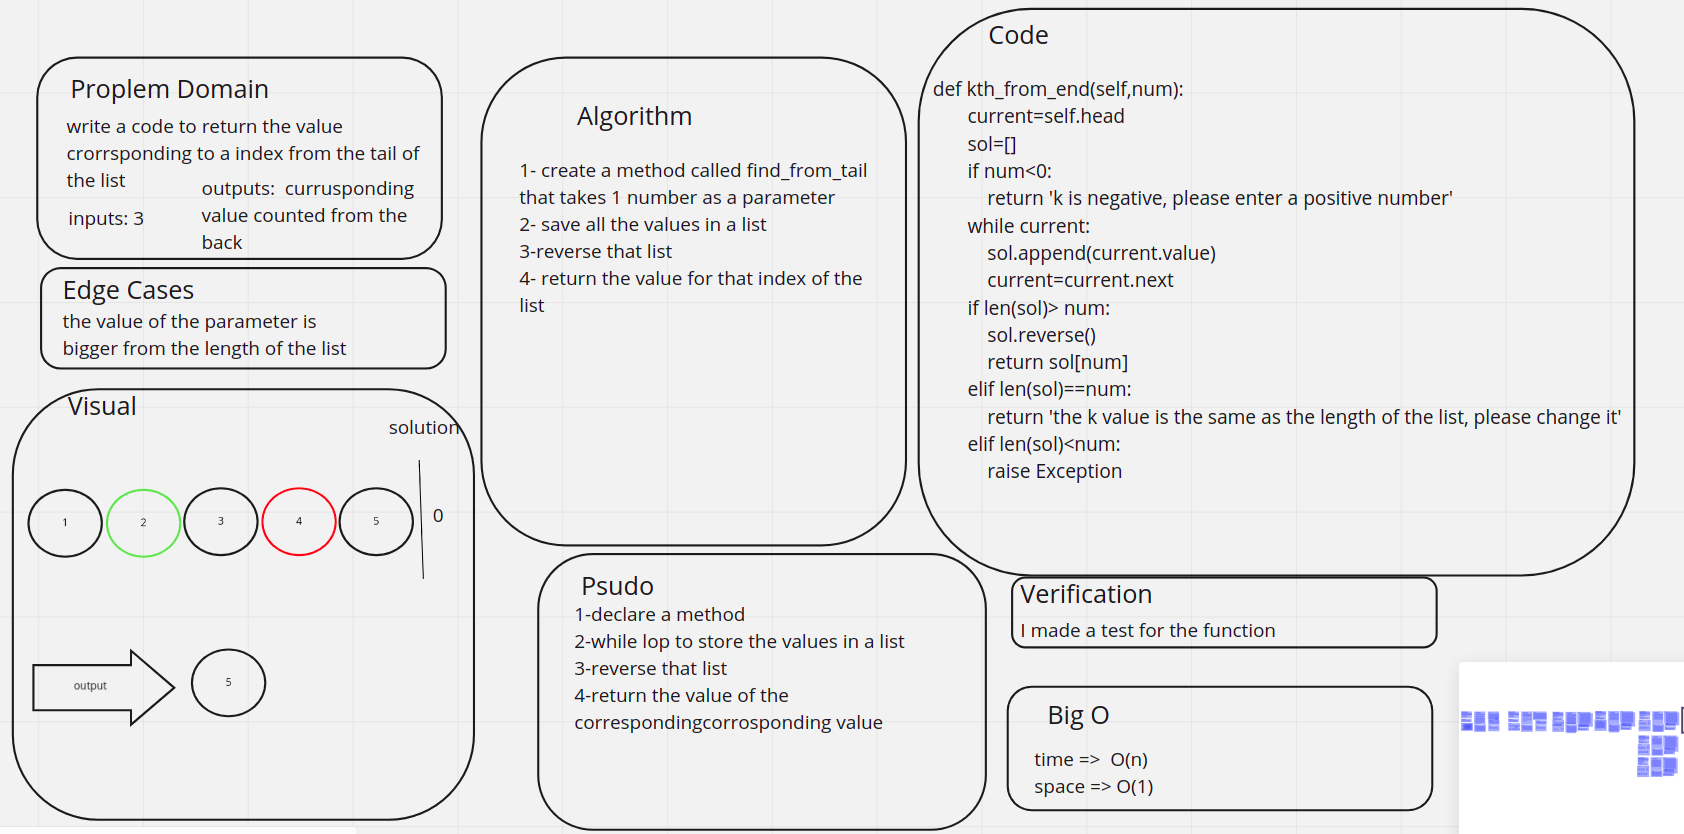
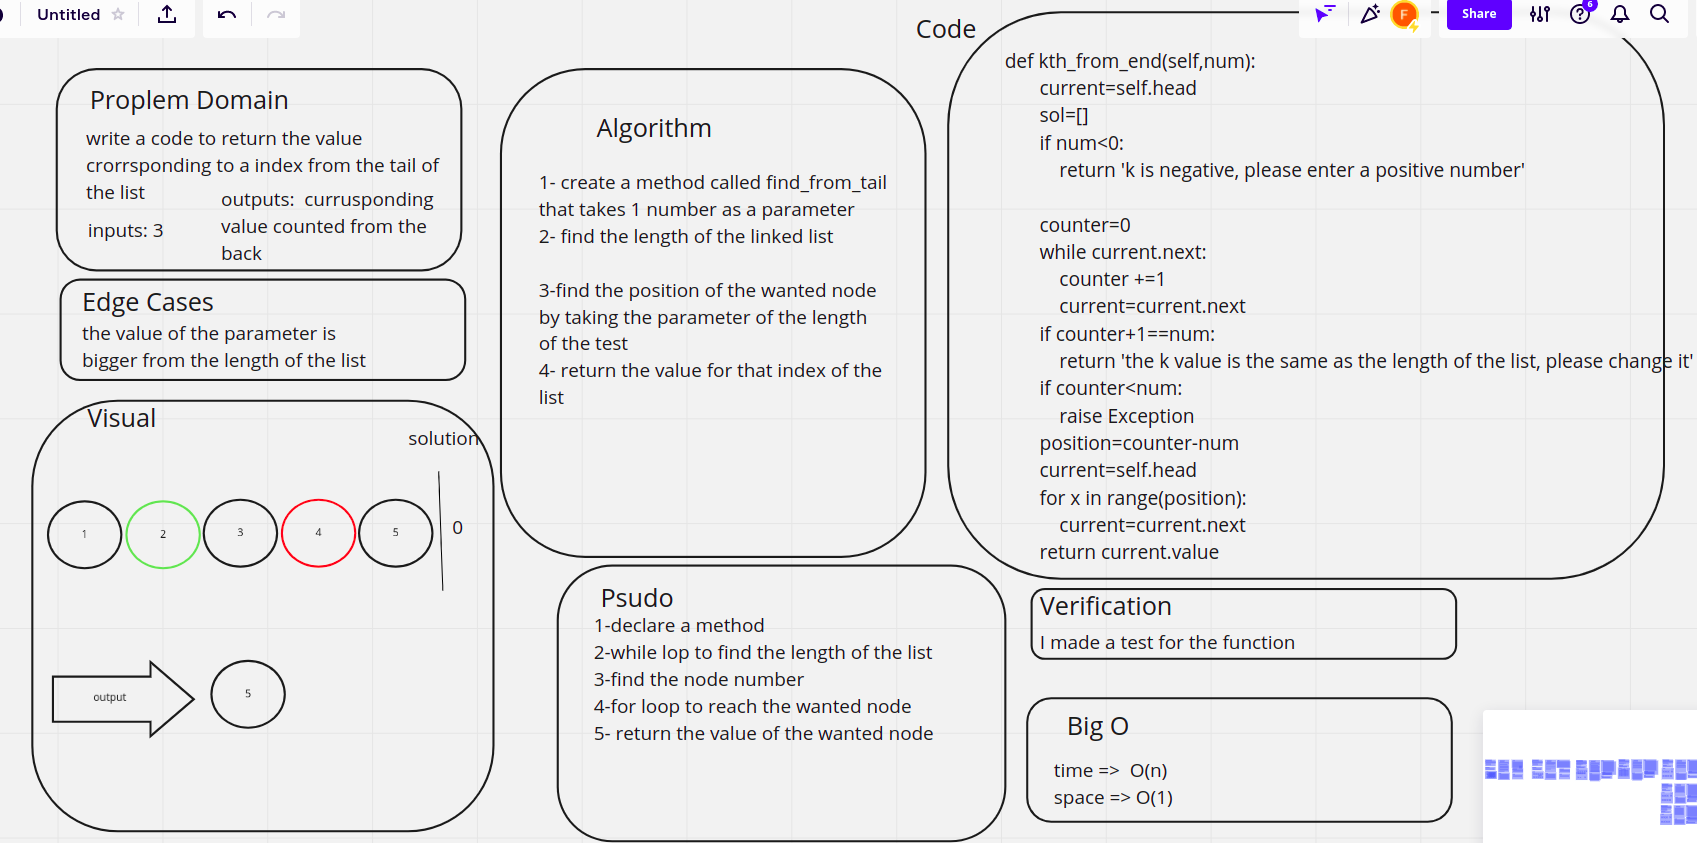
fix cc7

diff --git a/python/code_challenges/linked_list/linked_list/linked_lists.py b/python/code_challenges/linked_list/linked_list/linked_lists.py
@@ -83,17 +83,32 @@ class LinkedList():
         sol=[]
         if num<0:
             return 'k is negative, please enter a positive number'
-        while current:
-            sol.append(current.value)
+        
+        counter=0
+        while current.next:
+            counter +=1
             current=current.next
-        if len(sol)> num:
-            sol.reverse()
-            return sol[num]
-        elif len(sol)==num:
+        if counter+1==num:
             return 'the k value is the same as the length of the list, please change it'
-        elif len(sol)<num:
-
+        if counter<num:
             raise Exception
+        position=counter-num
+        current=self.head
+        for x in range(position):
+            current=current.next
+        return current.value
+    
+        # while current:
+        #     sol.append(current.value)
+        #     current=current.next
+        # if len(sol)> num:
+        #     sol.reverse()
+        #     return sol[num]
+        # elif len(sol)==num:
+        #     return 'the k value is the same as the length of the list, please change it'
+        # elif len(sol)<num:
+
+        #     raise Exception
 
         
 
